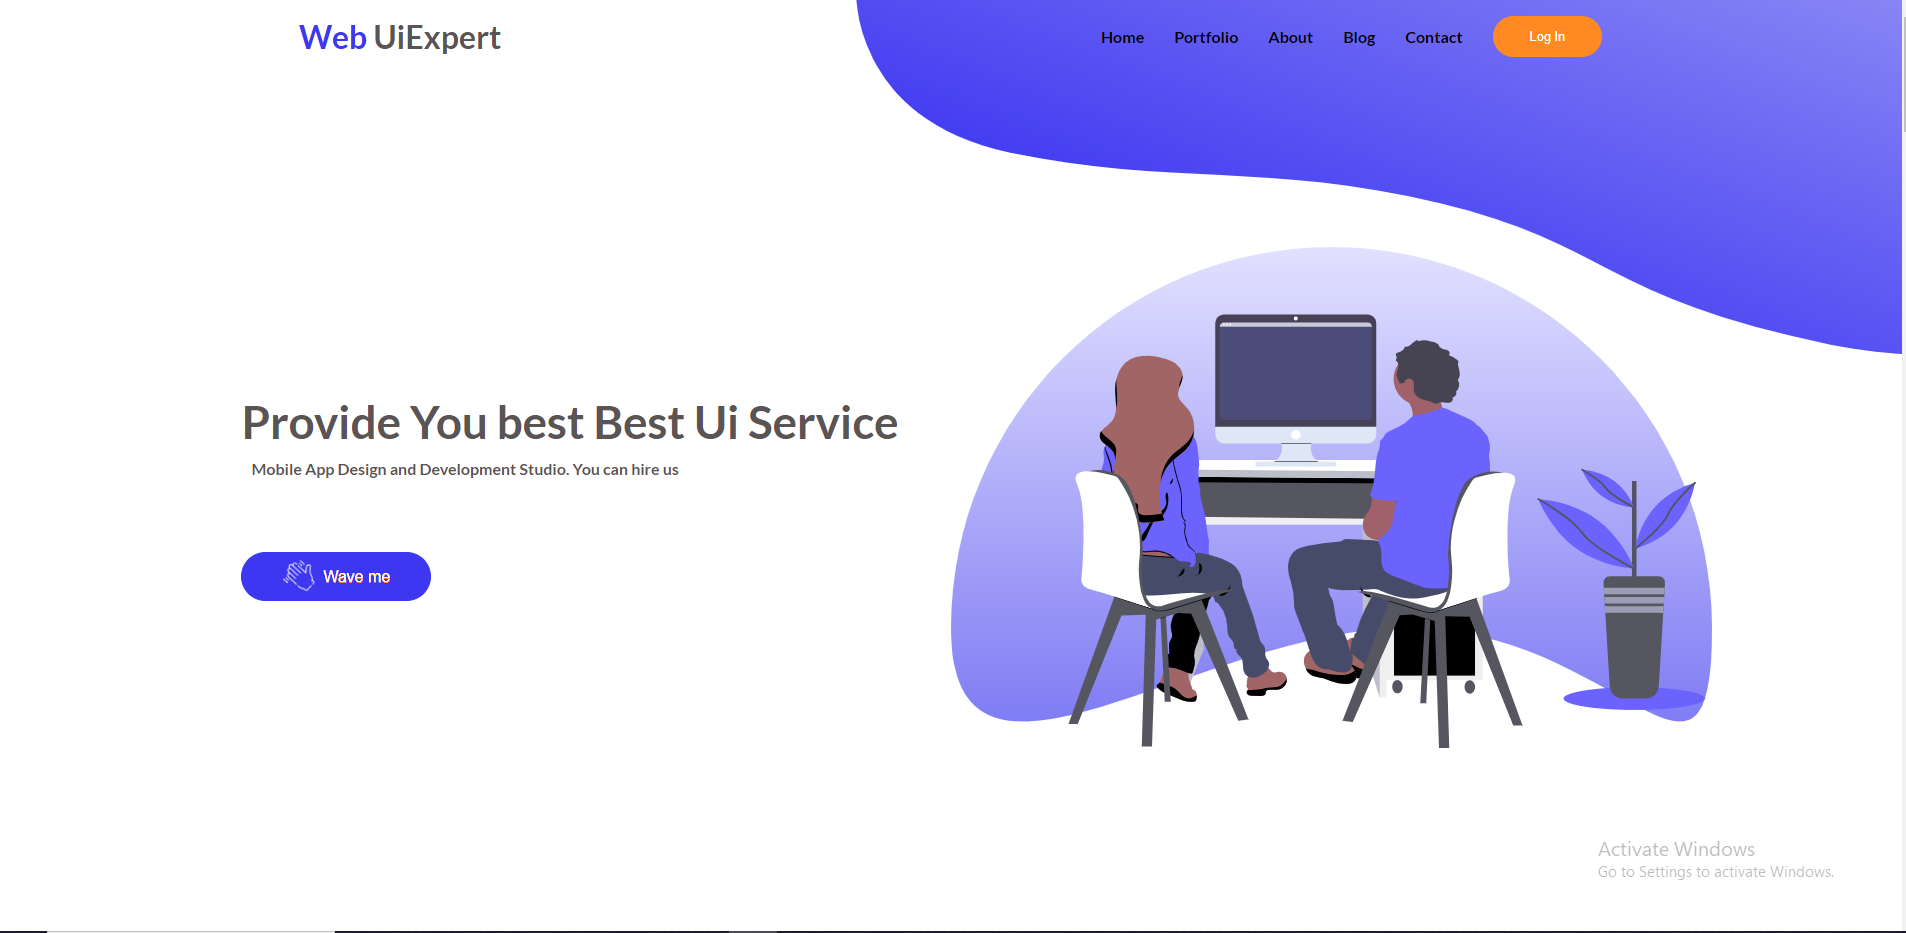
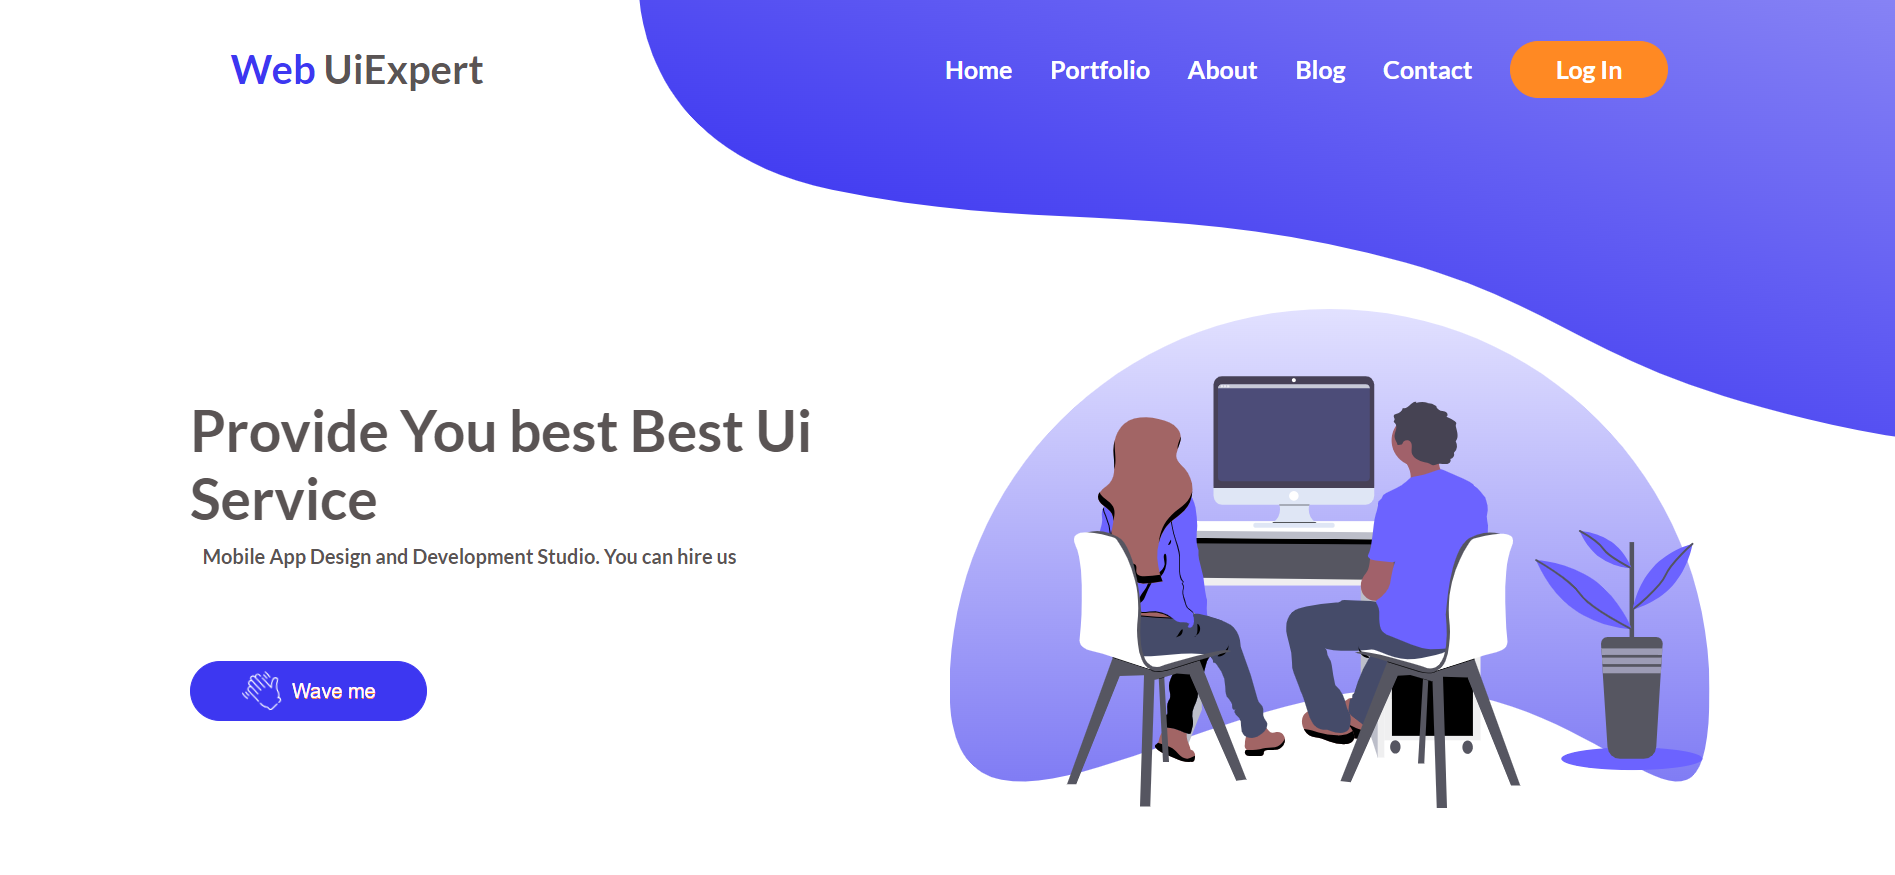
feature(about):Add About section and do general bugfixing and style changes,update daisyui version

diff --git a/my-astro-site/src/global.css b/my-astro-site/src/global.css
@@ -82,6 +82,22 @@
   --visibleInLightMode: none;
 }
 
+html {
+  scroll-behavior: smooth;
+}
+.cloud {
+  position: absolute;
+  z-index: -1;
+  display: var(--visibleInLightMode);
+}
+
+.star {
+  position: absolute;
+  z-index: -100;
+  display: var(--visibleInDarkMode);
+}
+
+/*HEADER LINKS UNDERLINE ANIMATIONS*/
 .link-underline {
   border-bottom-width: 0;
   background-image: linear-gradient(transparent, transparent),
@@ -101,15 +117,63 @@
   background-size: 100% 3px;
   background-position: 0 100%;
 }
+/*BUTTON LINKS UNDERLINE ANIMATIONS*/
 
-.cloud {
-  position: absolute;
-  z-index: 2;
-  display: var(--visibleInLightMode);
+.button-link-underline > span {
+  border-bottom-width: 0;
+  background-image: linear-gradient(transparent, transparent),
+    linear-gradient(var(--dark), var(--dark));
+  background-size: 0 4px;
+  background-position: 0 100%;
+  background-repeat: no-repeat;
+  transition: background-size 0.2s ease-in-out;
 }
 
-.star {
-  position: absolute;
-  z-index: 2;
-  display: var(--visibleInDarkMode);
+.button-link-underline-black > span {
+  background-image: linear-gradient(transparent, transparent),
+    linear-gradient(var(--dark), var(--dark));
+}
+
+.button-link-underline:hover > span {
+  background-size: 100% 4px;
+  background-position: 0 100%;
+}
+
+/*ScrollBar*/
+
+/* Firefox */
+* {
+  scrollbar-width: thin;
+  scrollbar-color: var(--dark) var(--white);
+}
+
+/* Chrome, Edge and Safari */
+*::-webkit-scrollbar {
+  height: 8px;
+  width: 8px;
+}
+*::-webkit-scrollbar-track {
+  border-radius: 5px;
+  background-color: var(--white);
+}
+
+*::-webkit-scrollbar-track:hover {
+  background-color: var(--white);
+}
+
+*::-webkit-scrollbar-track:active {
+  background-color: var(--white);
+}
+
+*::-webkit-scrollbar-thumb {
+  border-radius: 2px;
+  background-color: var(--dark);
+}
+
+*::-webkit-scrollbar-thumb:hover {
+  background-color: var(--dark);
+}
+
+*::-webkit-scrollbar-thumb:active {
+  background-color: var(--dark);
 }
